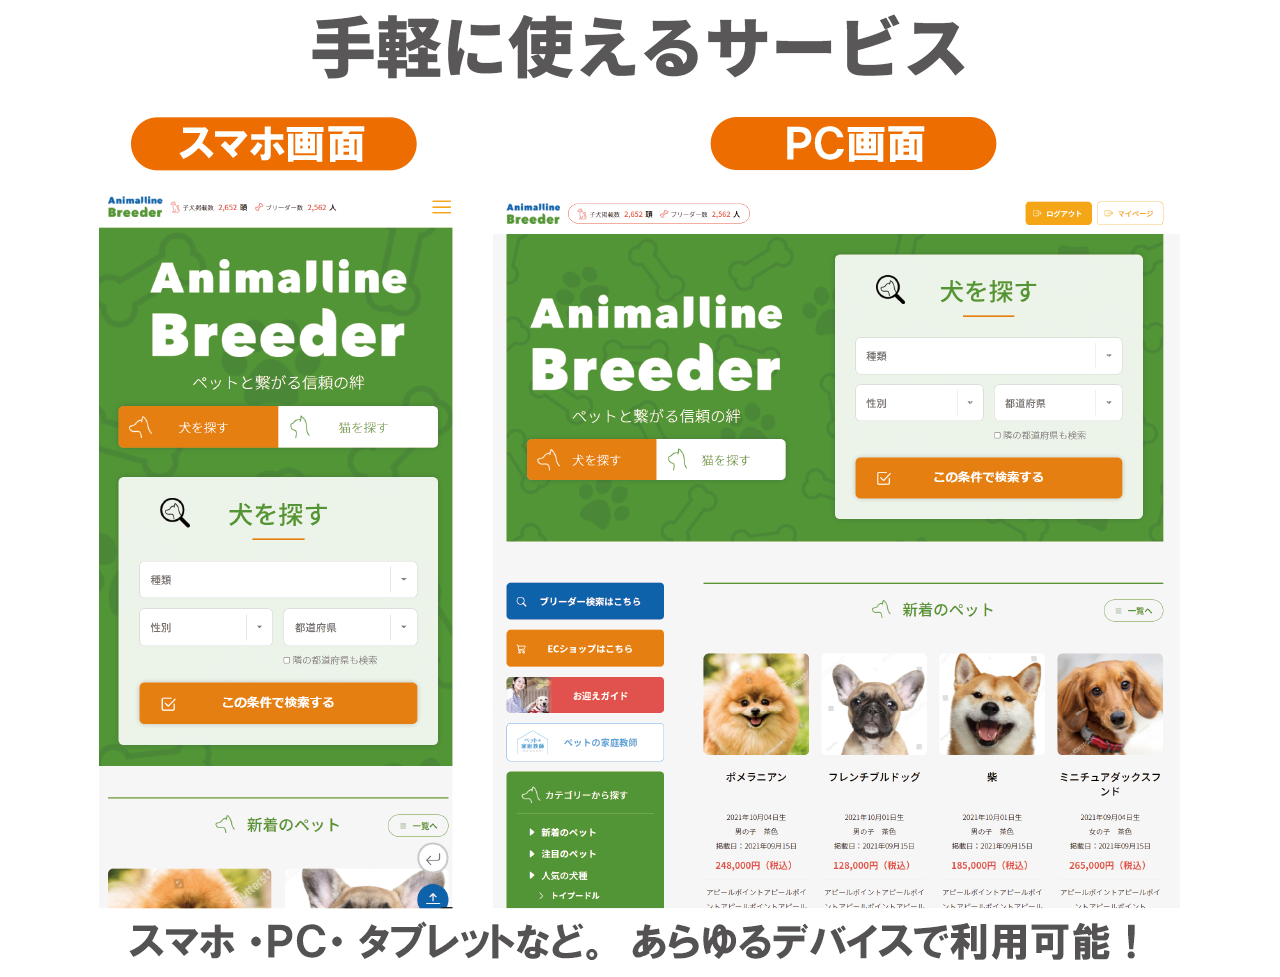
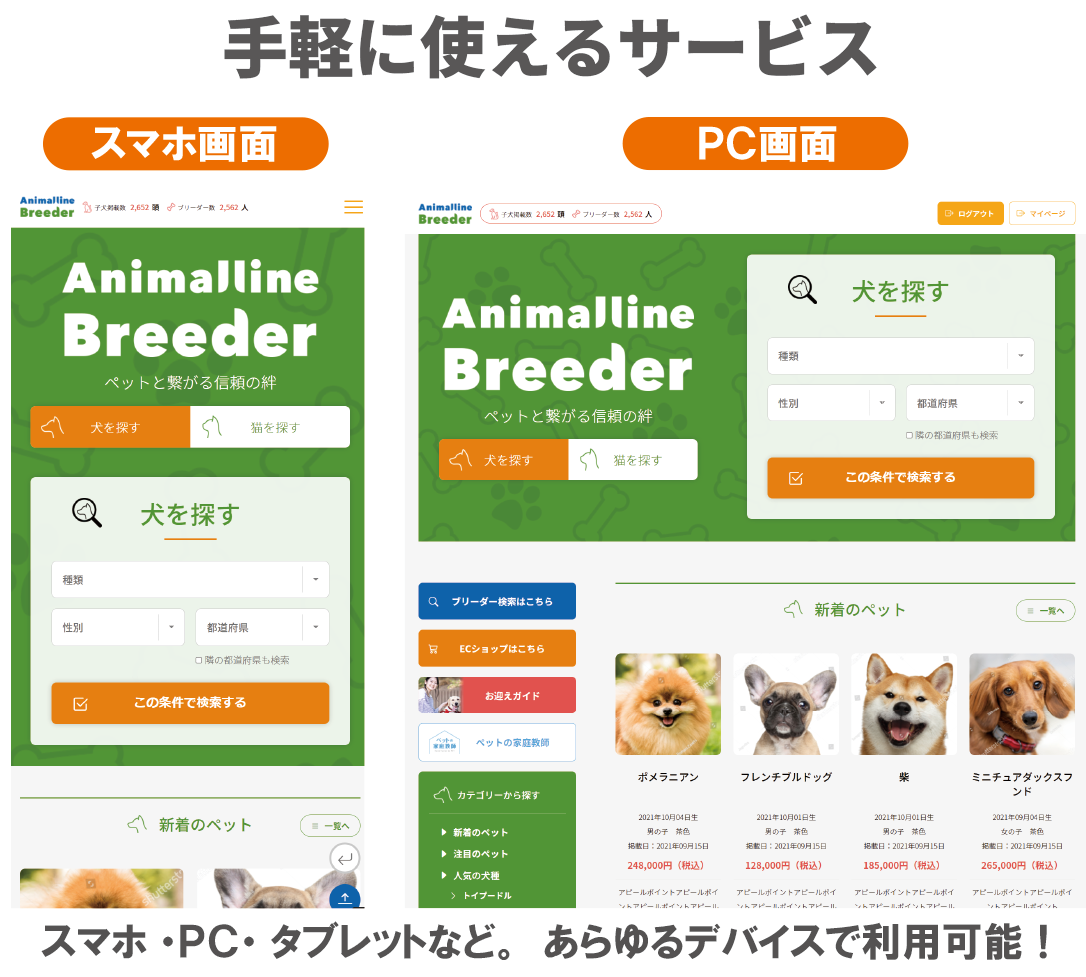
画面・メール調整

diff --git a/html/template/default/assets/css/reg/style.css b/html/template/default/assets/css/reg/style.css
@@ -14,8 +14,7 @@ h1,h2,h3,h4,h5,h6{font-size:100%;}
 img,abbr,acronym,fieldset{border:0;}
 
 html{
-	font: 30px 'Noto Sans JP', Arial, Verdana, 游ゴシック, YuGothic,'ヒラギノ角ゴ ProN W3', 'Hiragino Kaku Gothic ProN', メイリオ, Meiryo,sans-serif;
-	font-weight: 500;
+	font: 30px Arial,"ヒラギノ角ゴ ProN W3","Hiragino Kaku Gothic ProN","メイリオ",Meiryo,sans-serif;
 	-webkit-text-size-adjust:100%;
 	overflow-x: hidden;
 	color: #000;
@@ -52,7 +51,7 @@ a:active, a:focus,input:active, input:focus{outline:0;}
 }
 
 #mainImg {
-	margin: 1rem auto 1rem auto;
+	margin: 1rem auto 0 auto;
 	width: 80%;
 	text-align: center;
 }
@@ -119,8 +118,18 @@ section h2 span {
 .innerS{
 	width: 80%;
 	margin: 0 auto;
-	padding-bottom: 15px;
-	margin-bottom: 0.5rem;
+	padding: 1rem 1rem 1rem 1rem;
+	margin-bottom: 1.5rem;
+	background-color: rgb(238, 219, 209);
+	border-radius: 0.5rem;
+}
+.innerImg{
+	text-align: center;
+	margin-bottom: 1.5rem;
+}
+
+.titleImg{
+	text-align: center;
 }
 
 .companyS{
@@ -149,7 +158,7 @@ section h2 span {
 a.btn,
 button.btn {
 	font-size: 20px;
-	font-weight: 700;
+	font-weight: 400;
 	line-height: 1.5;
 	position: relative;
 	display: inline-block;
@@ -172,12 +181,12 @@ button.btn {
 .btn--orange,
 a.btn--orange {
 	color: #fff;
-	background-color: #eb6100;
+	background-color: #F08719;
 }
 .btn--orange:hover,
 a.btn--orange:hover {
 	color: #fff;
-	background: #f56500;
+	background: #F08719;
 }
 
 .btn--green,
